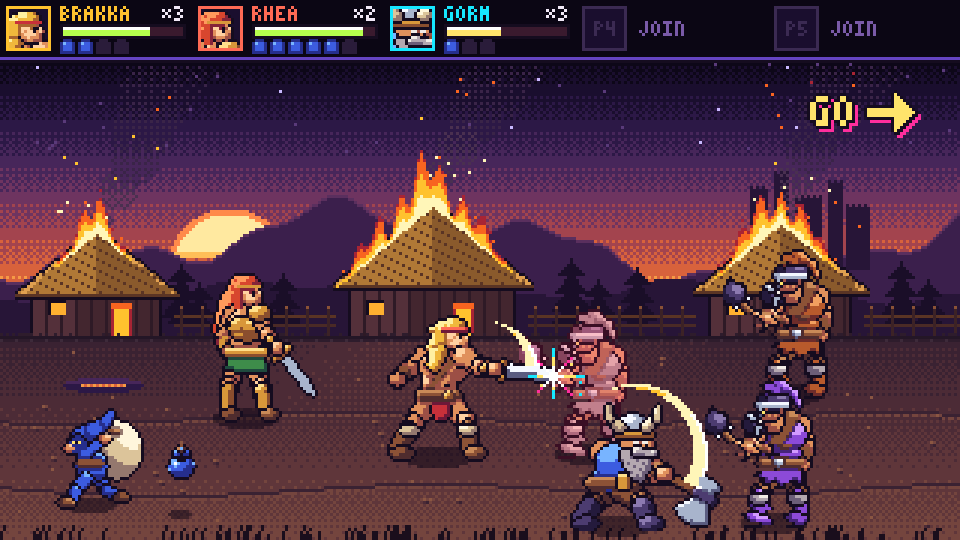
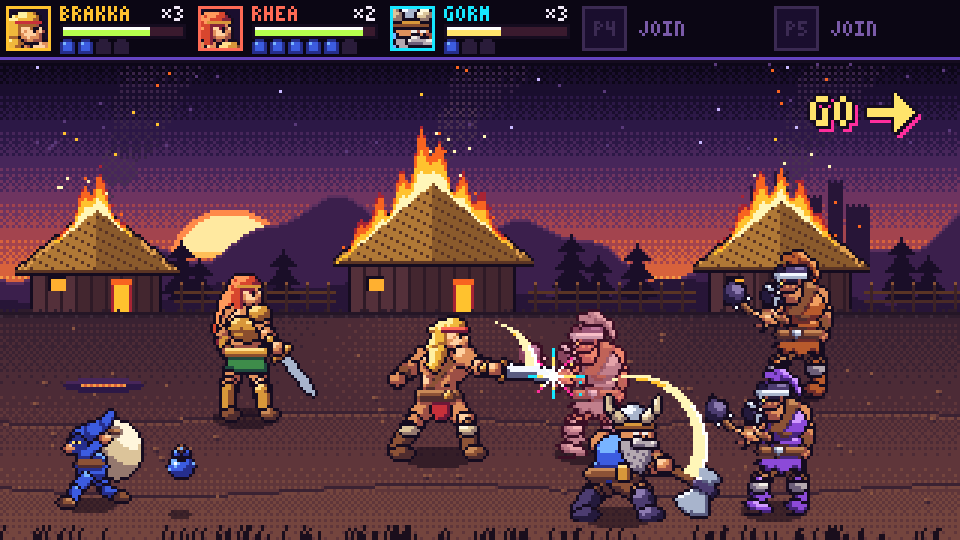
Fuse Axe concept art review fixes: floor band, ragged ravager rows, reduced motion, docs
- Key scene: horizon at the engine's FLOOR_TOP (104) and every actor's feet within FLOOR_BOTTOM (172); scene PNG regenerated.
- Pad the ravager's 15 short rows to its 37-pixel width and make the glow's solid() test treat a missing cell as empty.
- Freeze the animation when prefers-reduced-motion is set (as with ?still).
- design.md: reconcile the no-binary rule with the two docs PNGs and link the line-up image; README links the concept page.

diff --git a/games/fuse-axe/docs/concept-art.html b/games/fuse-axe/docs/concept-art.html
@@ -424,8 +424,8 @@ const SPRITES = {
     "..........kkkk.......................",
     ".........kAAaakkk....................",
     "........kAAaa$aaak...................",
-    "......kkAaa$aaaaak..................",
-    ".....kAA$$$$aa$k..................",
+    "......kkAaa$aaaaak...................",
+    ".....kAA$$$$aa$k.....................",
     ".....kAa$kkkkkkk$kk..................",
     ".....ka$kiIIIiiik##k.................",
     "....kAakkiiiiiii###k.................",
@@ -443,20 +443,20 @@ const SPRITES = {
     "kskaaaaa$9llll9$kskkkkkk...kLl9kMk...",
     "kkkkaaaaa$lllll$k1skS11lkkkLl9k.k....",
     "ksskaaaaaa$llll9$kkS1LLLkSsk9k.......",
-    "ks11k$$$lll99$kks1LLkSSssk........",
-    "k1lllk$$$999$$ks1llksss1k........",
-    "k1llkaAA$$$$$$k199kss11k........",
-    "klllkaaaaaaakkkkk$kkkkLk11k.........",
-    ".klk9k$$$99999$k...k99kk..........",
+    "ks11k$$$lll99$kks1LLkSSssk...........",
+    "k1lllk$$$999$$ks1llksss1k............",
+    "k1llkaAA$$$$$$k199kss11k.............",
+    "klllkaaaaaaakkkkk$kkkkLk11k..........",
+    ".klk9k$$$99999$k...k99kk.............",
     ".kk1LLLLLL9MMm9LLLlk...kk............",
     ".ks1llllll9mm79lll99k................",
     ".k1s199999997999999k.................",
-    "..k1k9$$$$$$9k.................",
+    "..k1k9$$$$$$9k.......................",
     "...kkaaaaaaaaaaaaakk.................",
     "...kkaaaaaaaaaaaaa$kk................",
-    "...kka$$aaaaa$aa$kk................",
-    "...kk$kkkaaa$kk$$kk................",
-    "...kkkkk99k$kllkkklkk...............",
+    "...kka$$aaaaa$aa$kk..................",
+    "...kk$kkkaaa$kk$$kk..................",
+    "...kkkkk99k$kllkkklkk................",
     "..kklkk9k9kkkklkLLkk9k...............",
     "..klkaak9k....kkkkAakk...............",
     "..kkkkkkkk....kkkkkkkk...............",
@@ -464,12 +464,12 @@ const SPRITES = {
     "..kww5555k.....kwwww55k..............",
     "..kk5555kk.....kk5555kk..............",
     "..kakkkkk......kakkkk$k..............",
-    "..kaaa$k......kaaaaa$k..............",
+    "..kaaa$k......kaaaaa$k...............",
     "..kaakkkk.......kaakkkk..............",
     "..kkkaaa$kk.....kkkAAaakk............",
-    "..kaaaaa$$k....kAAAAaa$k...........",
-    "..k$aa$$$k....kaaaaa$$k...........",
-    "...k$$$k......k$$$k............",
+    "..kaaaaa$$k....kAAAAaa$k.............",
+    "..k$aa$$$k....kaaaaa$$k..............",
+    "...k$$$k......k$$$k..................",
     "....kkkkkk........kkkkkk.............",
   ] },
   lancer: { w: 64, h: 52, ax: 23, ay: 50, palette: {"0":"#6e1838","1":"#9c4f45","7":"#5a5c80","8":"#8a4e2e","9":"#4f2c2e","C":"#ff6a54","L":"#c98a58","M":"#f4f8ff","N":"#ffe08a","S":"#ffd1a1","c":"#c8303a","k":"#150c1f","l":"#8c5236","m":"#a8b4cc","n":"#d8973a","s":"#e0905c"}, rows: [
@@ -886,7 +886,7 @@ const tier = (l, m, d) => ({ A: HEX[l], a: HEX[m], $: HEX[d] });
 const SWAPS = { rust: tier("T", "t", "%"), violet: tier("Q", "q", "^"),
   brakka2: { H: "#b58a6a", h: "#5e3a36", 3: "#2c1828", C: "#78b4ff", c: "#3c5ce0", 0: "#262e8c", S: "#eeb184", s: "#b86d45", 1: "#723a3a" } };
 const FLAME = ["#fff6b8", "#ffc22e", "#f86420", "#a82434"];
-const STILL = /[?&]still/.test(location.search);
+const STILL = /[?&]still/.test(location.search) || matchMedia("(prefers-reduced-motion: reduce)").matches;
 
 // ---- sprite rendering
 const rgb = (h) => [1, 3, 5].map((i) => parseInt(h.slice(i, i + 2), 16));
@@ -914,7 +914,7 @@ function put(g, name, fx, fy, o = {}) {
   g.save(); g.scale(-1, 1); g.drawImage(c, -x - s.w, y); g.restore();
 }
 function glow(g, s, x, y, flip, col) { // 2-px neon aura around the silhouette
-  const solid = (i, j) => i >= 0 && j >= 0 && i < s.w && j < s.h && s.rows[j][flip ? s.w - 1 - i : i] !== ".";
+  const solid = (i, j) => { const ch = i >= 0 && j >= 0 && i < s.w && j < s.h ? s.rows[j][flip ? s.w - 1 - i : i] : "."; return ch !== undefined && ch !== "."; };
   for (let j = -2; j < s.h + 2; j++) for (let i = -2; i < s.w + 2; i++) {
     if (solid(i, j)) continue;
     let d = 9;
@@ -951,7 +951,7 @@ function text(g, str, x, y, col, k = 1) {
 }
 
 // ---- stage 1 backdrop (static part)
-const W = 320, H = 180, FLOOR = 112;
+const W = 320, H = 180, FLOOR = 104; // FLOOR is the engine's FLOOR_TOP; feet stand on rows FLOOR..172 (FLOOR_BOTTOM)
 const HUTS = [{ x: 10, w: 44, wall: 15, roof: 22, burn: 0.55 }, { x: 116, w: 56, wall: 18, roof: 28, burn: 1 },
   { x: 236, w: 48, wall: 16, roof: 24, burn: 0.8 }];
 function roofTop(h, x) { // y of the thatch surface at column x
@@ -1123,8 +1123,8 @@ function scene(g, t) {
     [152, () => { shadow(g, 146, 152, 12); put(g, "brakkaAttack", 146, 152); }],
     [151, () => { shadow(g, 196, 151, 11); put(g, "ravager", 196, 151, { flip: true, over: flash("ravager"), key: "flash" }); }],
     [131, () => { shadow(g, 264, 131, 11); put(g, "ravager", 264, 131, { flip: true, over: SWAPS.rust, key: "rust" }); }],
-    [175, () => { shadow(g, 206, 175, 12); put(g, "gormAttack", 206, 175); }],
-    [174, () => { shadow(g, 258, 174, 11); put(g, "ravager", 258, 174, { flip: true, over: SWAPS.violet, key: "violet" }); }],
+    [172, () => { shadow(g, 206, 172, 12); put(g, "gormAttack", 206, 172); }],
+    [170, () => { shadow(g, 258, 170, 11); put(g, "ravager", 258, 170, { flip: true, over: SWAPS.violet, key: "violet" }); }],
   ].sort((a, b) => a[0] - b[0]);
   actors.forEach(([, f]) => f());
   if (pz > 0) for (const [a, b] of [[-4, -3], [4, -5], [0, -10]]) px(g, 60 + a, 171 - pz + b, "#78b4ff");
@@ -1230,7 +1230,7 @@ const vig = [["storm", "Storm", "Brakka. Lightning strikes the screen; level 4 c
   });
 const NAMES = { k: "outline", S: "skin", O: "ogre", H: "blond", E: "red hair", W: "grey", B: "bone", M: "steel", N: "bronze",
   I: "dark iron", L: "leather", C: "red cloth", V: "green", U: "imp blue", A: "ash", T: "rust", Q: "violet", Y: "clawbeak",
-  X: "drake", F: "flame", G: "cyan", P: "pink", J: "lime", D: "yellow", Z: "white", g: "violet" };
+  X: "drake", F: "flame", G: "cyan", P: "pink", J: "lime", D: "yellow", Z: "white", g: "UI violet" };
 const BACKDROP = [...NIGHT.sky, ...NIGHT.hills, ...NIGHT.road].map((v) => ["", v]); // procedural layers, no sprite key
 for (const [group, pal] of MASTER) {
   const sw = el("div", { className: "sw" }, (group.startsWith("Night") ? [...pal, ...BACKDROP] : pal).map(([ch, hex]) =>

diff --git a/games/fuse-axe/docs/design.md b/games/fuse-axe/docs/design.md
@@ -10,6 +10,9 @@ pixel data in the page, `?still` freezes the animation).
 
 ![Stage 1 key scene](images/concept-scene.png)
 
+The full line-up (heroes, enemies, mounts, the boss, magic and the palette) as one image:
+[`images/concept-lineup.png`](images/concept-lineup.png).
+
 ## Story in one breath
 
 The warlord **Vorhal** broke the Ember Axe that kept the realm's hearth-fires lit and carried the shards to his keep.
@@ -94,7 +97,8 @@ drops pots and meat (meat heals). Then the next stage.
 - Heroes and grunts are about 32 × 48 pixels, bosses up to 64 × 72. Sprites face right and flip for left; every
   entity has a soft ellipse shadow on the floor, which also shows a jumping figure's depth.
 - Sprites are drawn from palette-indexed pixel data in code, so palette swaps (enemy tiers, duplicate heroes,
-  damage flash) are free and nothing binary is checked in.
+  damage flash) are free and no sprite sheet is checked in. (The two PNGs under `docs/images/` are screenshots of the
+  concept page, for readers who cannot open it.)
 - Draw order is by floor depth (further up the screen is further away), then by height.
 - Parallax backgrounds of two to three layers per stage.
 - Palette: warm dusk golds and embers against deep violet shadows, with the platform's neon accents for UI, magic

diff --git a/games/fuse-axe/README.md b/games/fuse-axe/README.md
@@ -1,7 +1,8 @@
 # Fuse Axe
 
 A co-op pixel-art beat-em-up for 1–5 heroes in the spirit of Golden Axe II. Work in progress: see
-[`docs/design.md`](docs/design.md) for the game and the delivery plan.
+[`docs/design.md`](docs/design.md) for the game and the delivery plan, and
+[`docs/concept-art.html`](docs/concept-art.html) (open it in a browser) for the concept art.
 
 ```sh
 pnpm exec tsx --test games/fuse-axe/tests/*.test.ts
